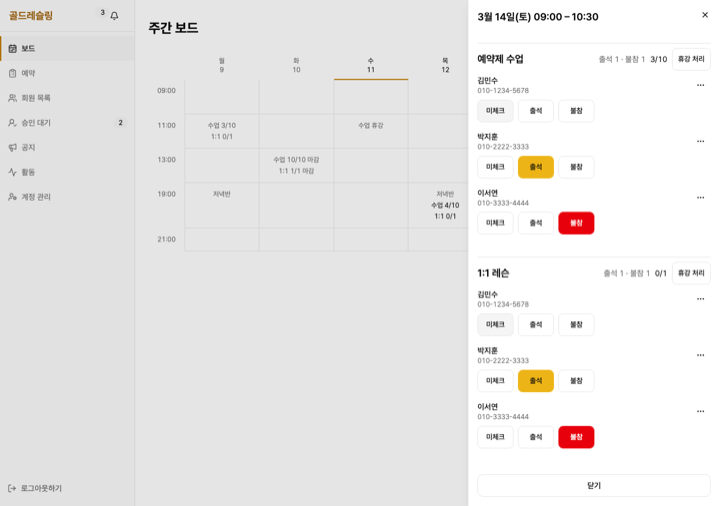
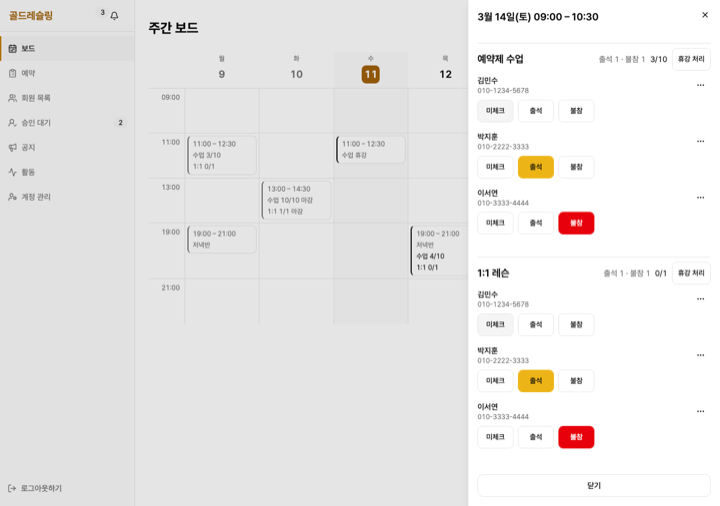
docs: 캘린더 주간 뷰 반영으로 시간표·주간 보드 캡처 5장 재촬영
FE #89(BE D-246)로 회원 시간표·관리자 주간 보드가 캘린더 주간 뷰로 바뀌어
그 화면이 들어간 5장(schedule-mobile · slot-sheet-mobile · admin-board-mobile ·
admin-board-desktop · admin-roster-desktop)을 FE dev(38444f9, release PR #90과 같은 코드)의
감사 하네스로 같은 장면을 다시 찍어 덮어썼다. 같은 날 두 번째 교체라 SHOTS_VERSION을
20261104-2로 올리고 CAPTURE-LIST에 재촬영 기록을 남겼다.

diff --git a/.vitepress/theme/Landing.vue b/.vitepress/theme/Landing.vue
@@ -3,7 +3,7 @@ import { onMounted } from 'vue'
 import { withBase } from 'vitepress'
 
 // 같은 파일명으로 캡처를 교체하면 이 값을 올린다 — 브라우저·CDN 캐시가 옛 이미지를 붙잡지 않게 한다
-const SHOTS_VERSION = '20261104'
+const SHOTS_VERSION = '20261104-2'
 const shot = (name) => `${withBase(`/shots/${name}`)}?v=${SHOTS_VERSION}`
 
 onMounted(() => {

diff --git a/CAPTURE-LIST.md b/CAPTURE-LIST.md
@@ -1,6 +1,6 @@
 # 스크린샷 · GIF 촬영 목록
 
-사이트 홈(`Landing.vue`)과 `highlights/ui-audit.md`에 쓰는 캡처·데모 GIF 목록. 마지막 갱신 2026-11-04.
+사이트 홈(`Landing.vue`)과 `highlights/ui-audit.md`에 쓰는 캡처·데모 GIF 목록. 마지막 갱신 2026-11-04 (2차).
 
 **2026-11-04 재촬영.** 랜딩에 걸린 회원 6장·관리자 6장은 FE main(`e868920`)에서 `pnpm audit:capture -g capture`(MSW 목 데이터, 고정 시각)로 찍은 결과를 같은 파일명으로 옮겼다. DPR 1 · 모바일 360×900 원본 그대로, 데스크탑은 1280 → 720 폭으로 줄였다. 대응표:
 
@@ -10,6 +10,8 @@
 | schedule-mobile · slot-sheet-mobile · passes-mobile | reservations-360 · overlay-slot-dialog-360 · pass-detail-360 |
 | admin-board-desktop · admin-roster-desktop · admin-members-desktop | admin-board-1280 · overlay-roster-panel-1280 · admin-members-1280 |
 | admin-member-detail-desktop · admin-activity-desktop · admin-board-mobile | admin-member-detail-1280 · admin-activity-1280 · admin-board-360 |
+
+**2026-11-04 2차 재촬영 (캘린더 주간 뷰).** FE #89(BE D-246)로 회원 시간표·관리자 주간 보드가 캘린더 주간 뷰(날짜 숫자 머리 + 오늘 배지, 셀 안 이벤트 블록, 모바일 날짜 스트립·아젠다 행)로 바뀌어, 그 화면이 들어간 5장만 FE dev(`38444f9`, release PR #90과 같은 코드)에서 같은 하네스·같은 장면으로 다시 찍어 덮어썼다 — `schedule-mobile` · `slot-sheet-mobile` · `admin-board-mobile`(원본 360 그대로), `admin-board-desktop` · `admin-roster-desktop`(1280 → 720). `SHOTS_VERSION`은 같은 날 두 번째 교체라 `20261104-2`다. 나머지 7장은 화면 변화가 없어 그대로 둔다. 하네스 B 4종은 이번에도 실패했다(캡처 대상 아님).
 
 `my-reservations-mobile` · `admin-approve-desktop`은 랜딩에서 빠졌다(예약 화면에 다가오는 예약이 합쳐졌고, 승인은 회원 목록·승인 대기 탭으로 대체). 하네스 B(서비스 워커 차단) 화면 4종 — 온보딩·승인 대기·거절·비활성 — 은 이번 실행에서 캡처에 실패했다. before/after 두 쌍은 Phase 9·10 수정의 기록이라 다시 찍지 않는다.
 
